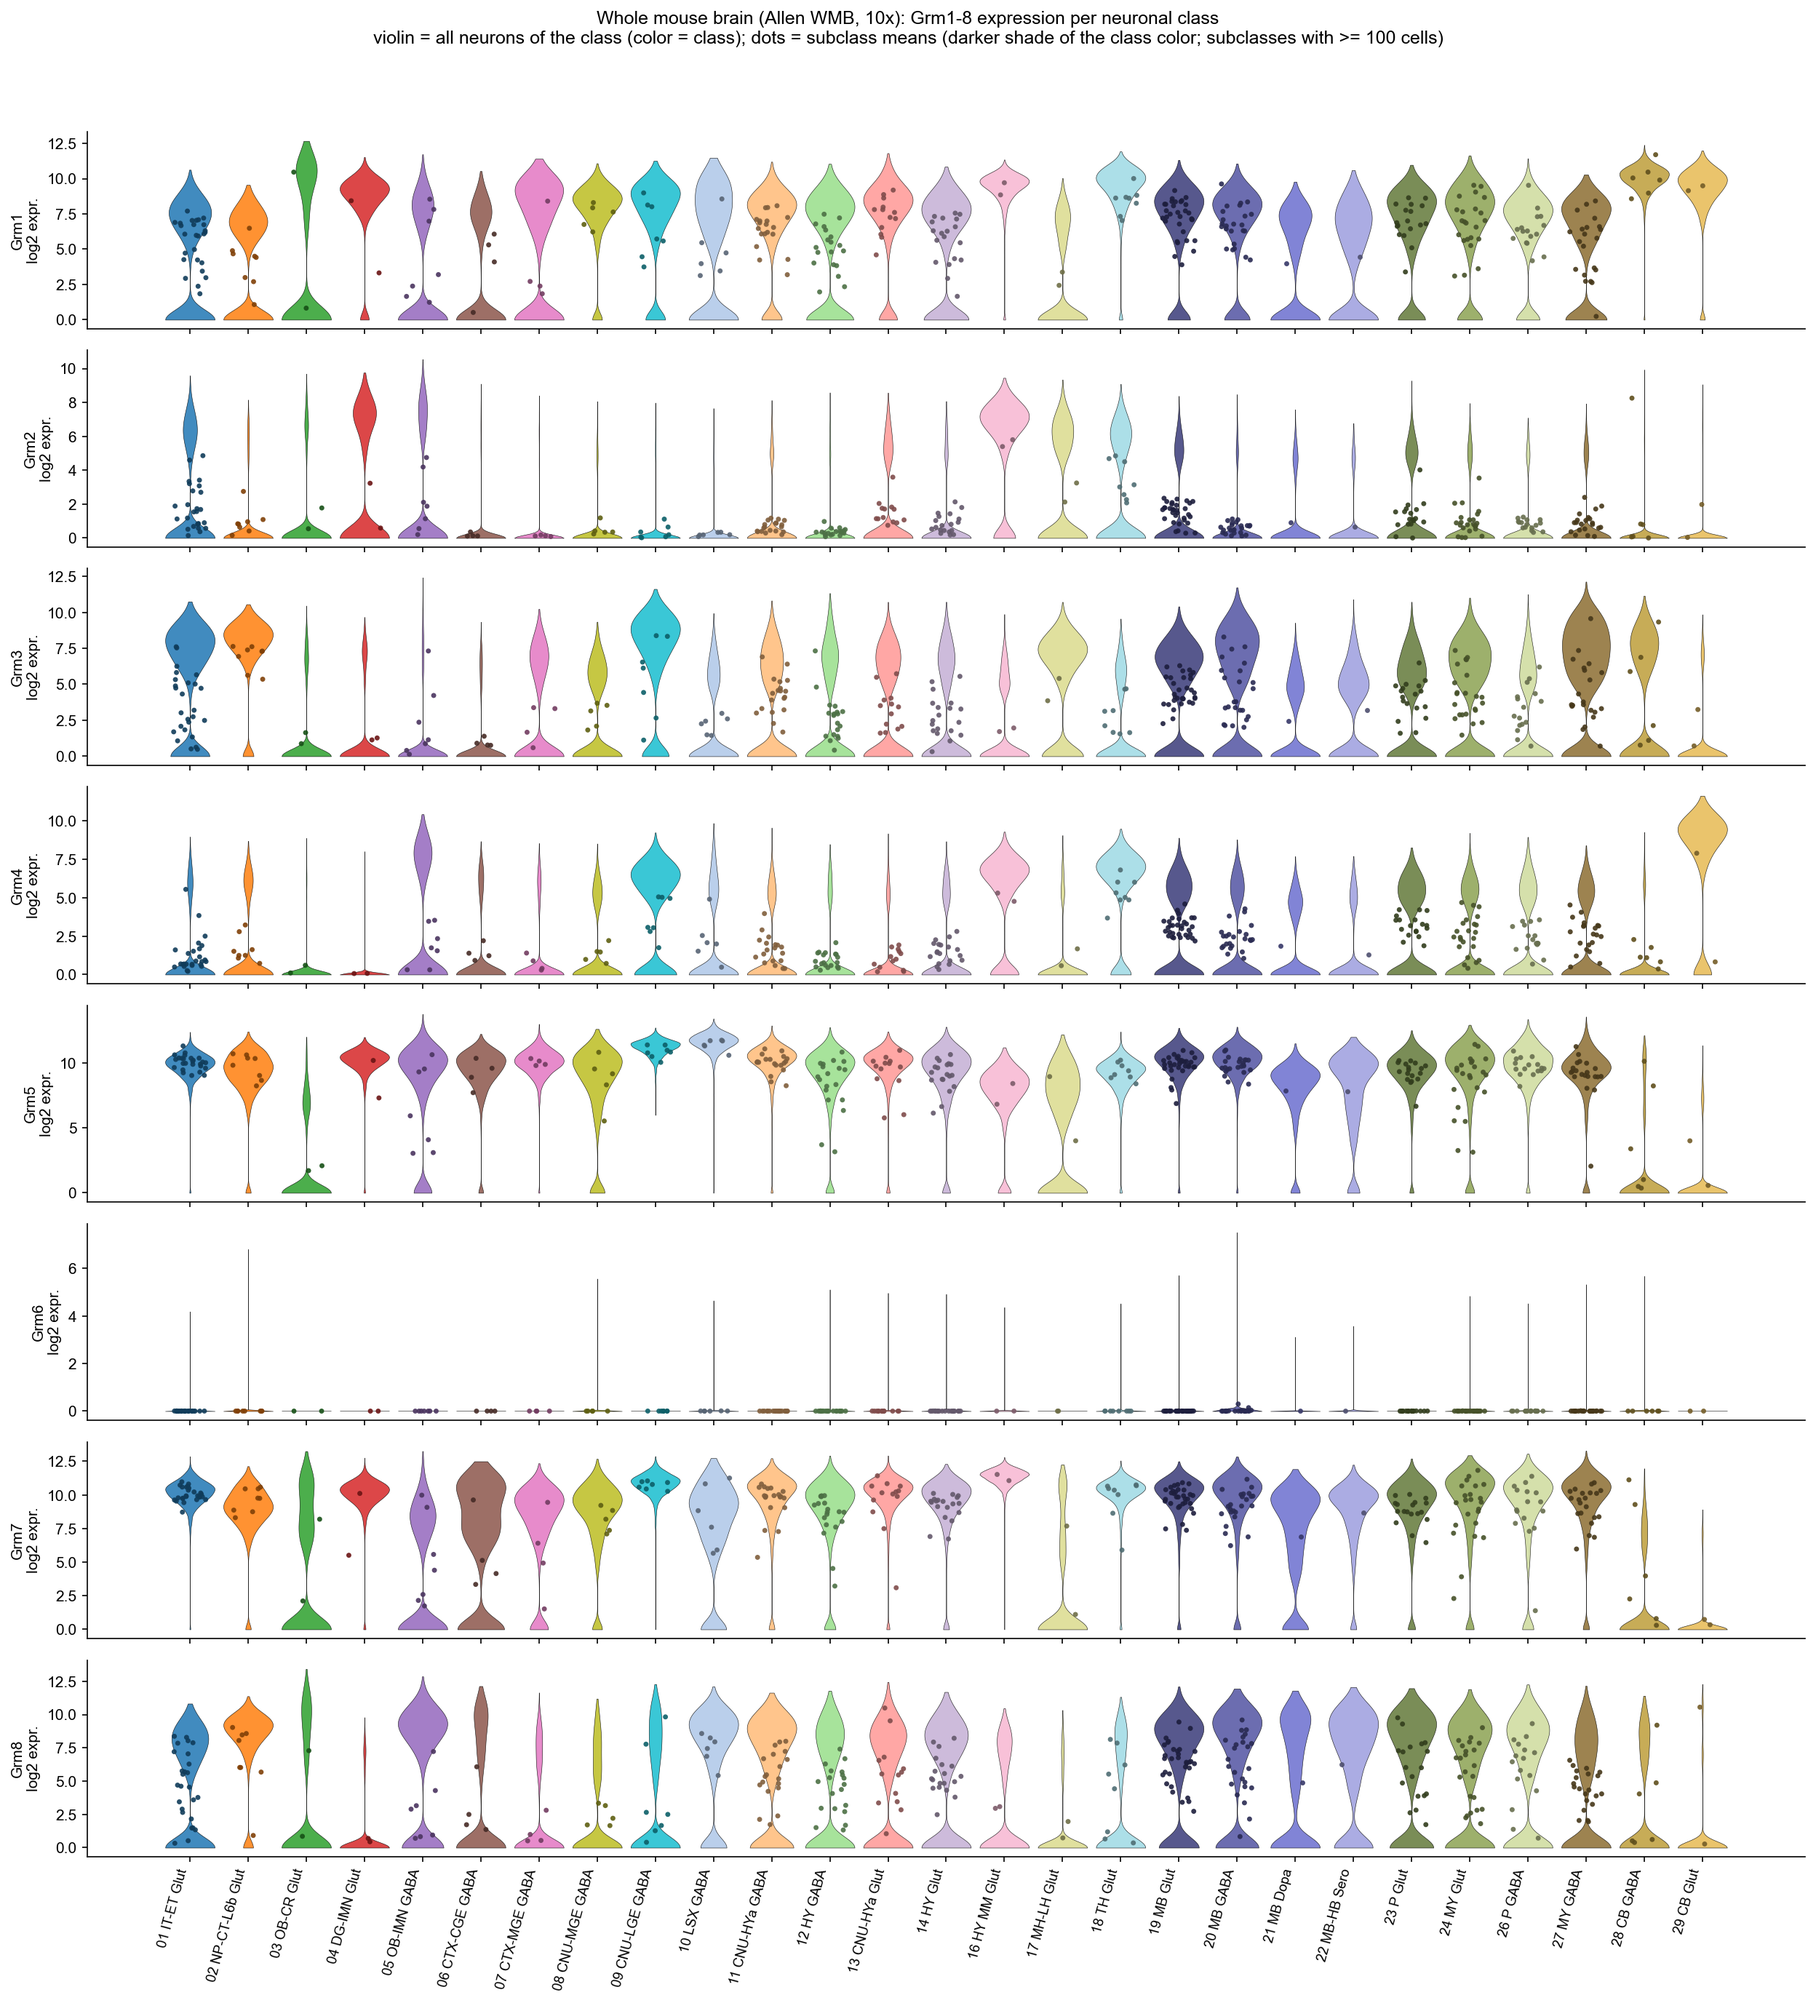
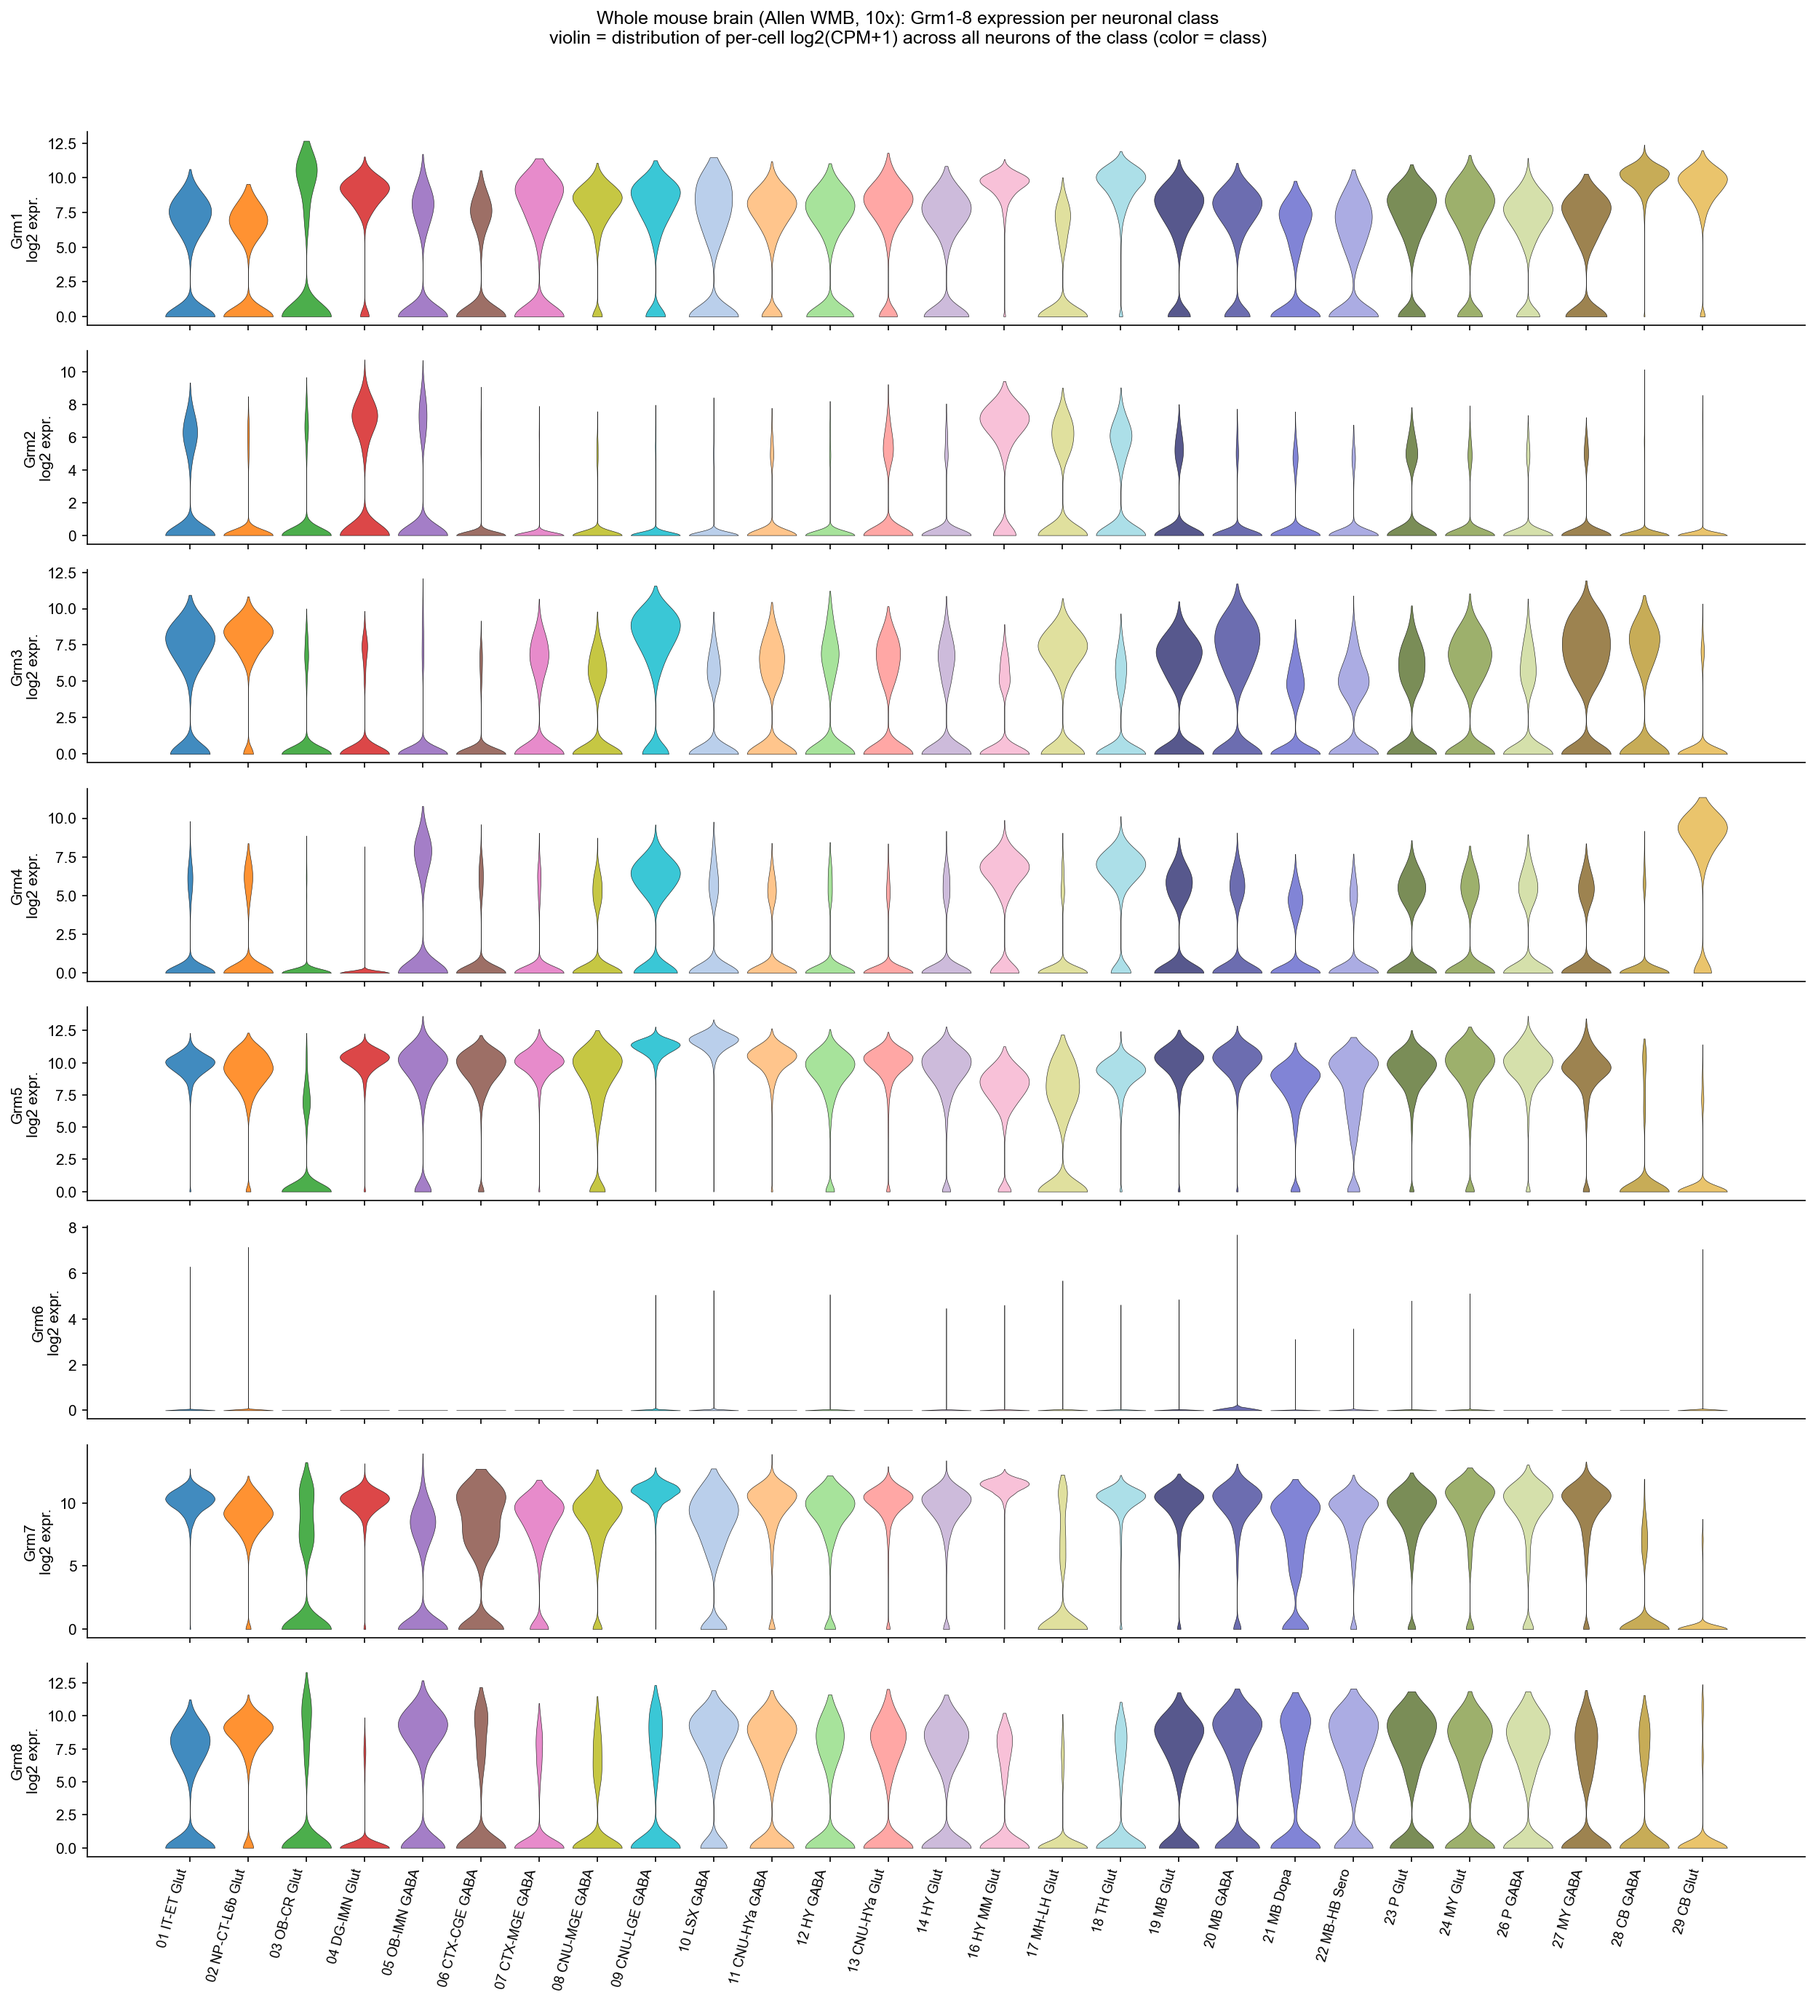
README: HIP example text, violin without dots, labels only above 1.8 on Grm2/Grm4 scatter
Claude-Session: https://claude.ai/code/session_01KFPffrMSKnZhb77F2SY6Li

diff --git a/README.md b/README.md
@@ -50,7 +50,7 @@ Top 5 subclasses per class by Grm expression; all subclasses: `figures/allen_wmb
 The atlas has neuronal classes 01–29; each holds many subclasses (~340 total), and thousands of clusters
 Below, are the vln plots showing Grm expression at the toplevel (neuronal classes)
 
-Violin = distribution of per-cell log2(CPM+1) for one Grm across all neurons of a class; dots = subclass means (subclasses with >= 100 cells), darker shade of the class color.
+Violin = distribution of per-cell log2(CPM+1) for one Grm across all neurons of a class (color = class).
 
 <img src="figures/allen_wmb/ALL_wb_violin_scatter.png" width="900">
 
